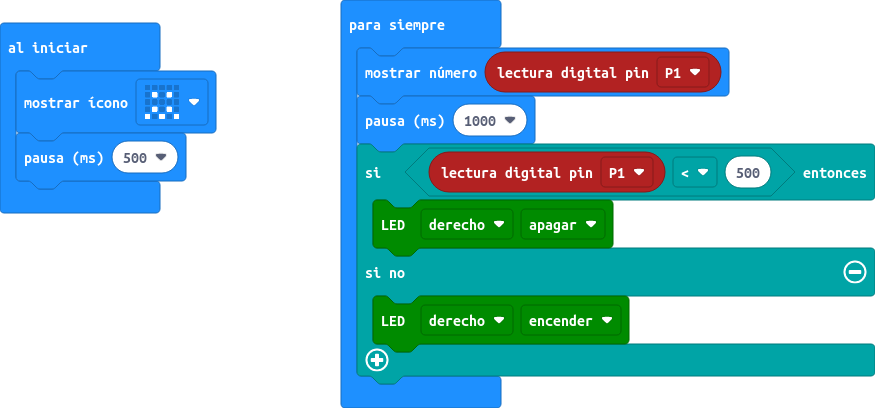
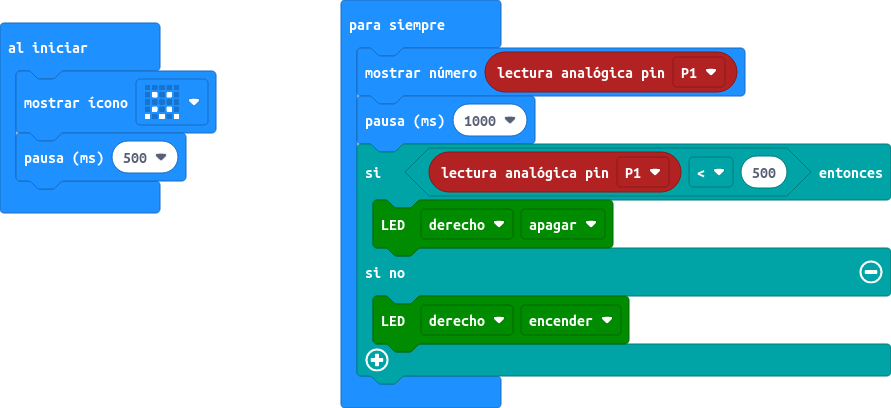
subsanar error

diff --git a/main.ts b/main.ts
@@ -1,9 +1,9 @@
 basic.showIcon(IconNames.Confused)
 basic.pause(500)
 basic.forever(function () {
-    basic.showNumber(pins.digitalReadPin(DigitalPin.P1))
+    basic.showNumber(pins.analogReadPin(AnalogPin.P1))
     basic.pause(1000)
-    if (pins.digitalReadPin(DigitalPin.P1) < 500) {
+    if (pins.analogReadPin(AnalogPin.P1) < 500) {
         maqueen.writeLED(maqueen.LED.LEDLeft, maqueen.LEDswitch.turnOff)
     } else {
         maqueen.writeLED(maqueen.LED.LEDLeft, maqueen.LEDswitch.turnOn)
